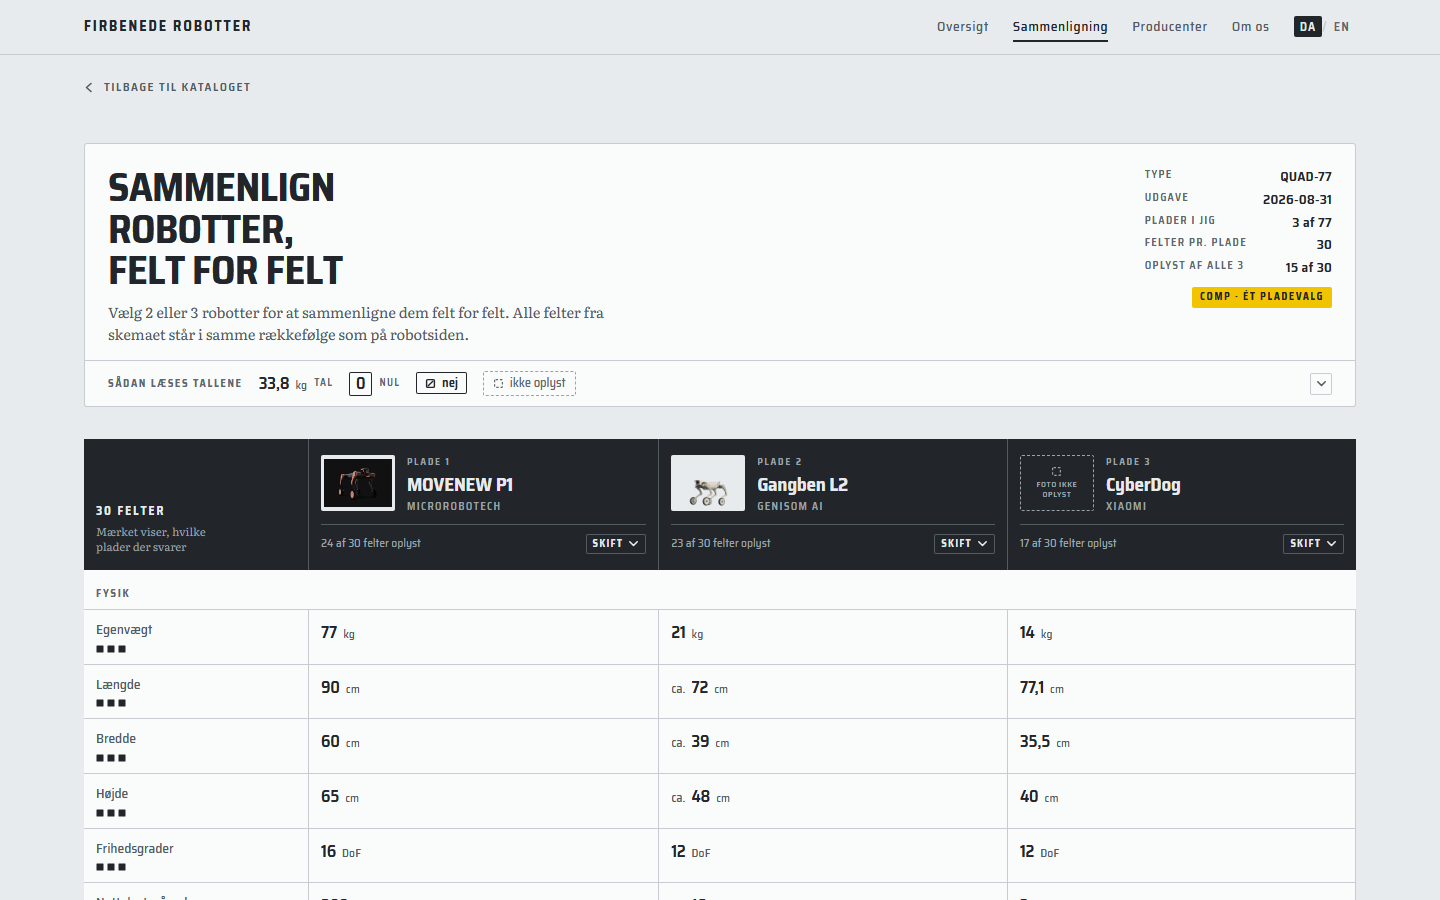
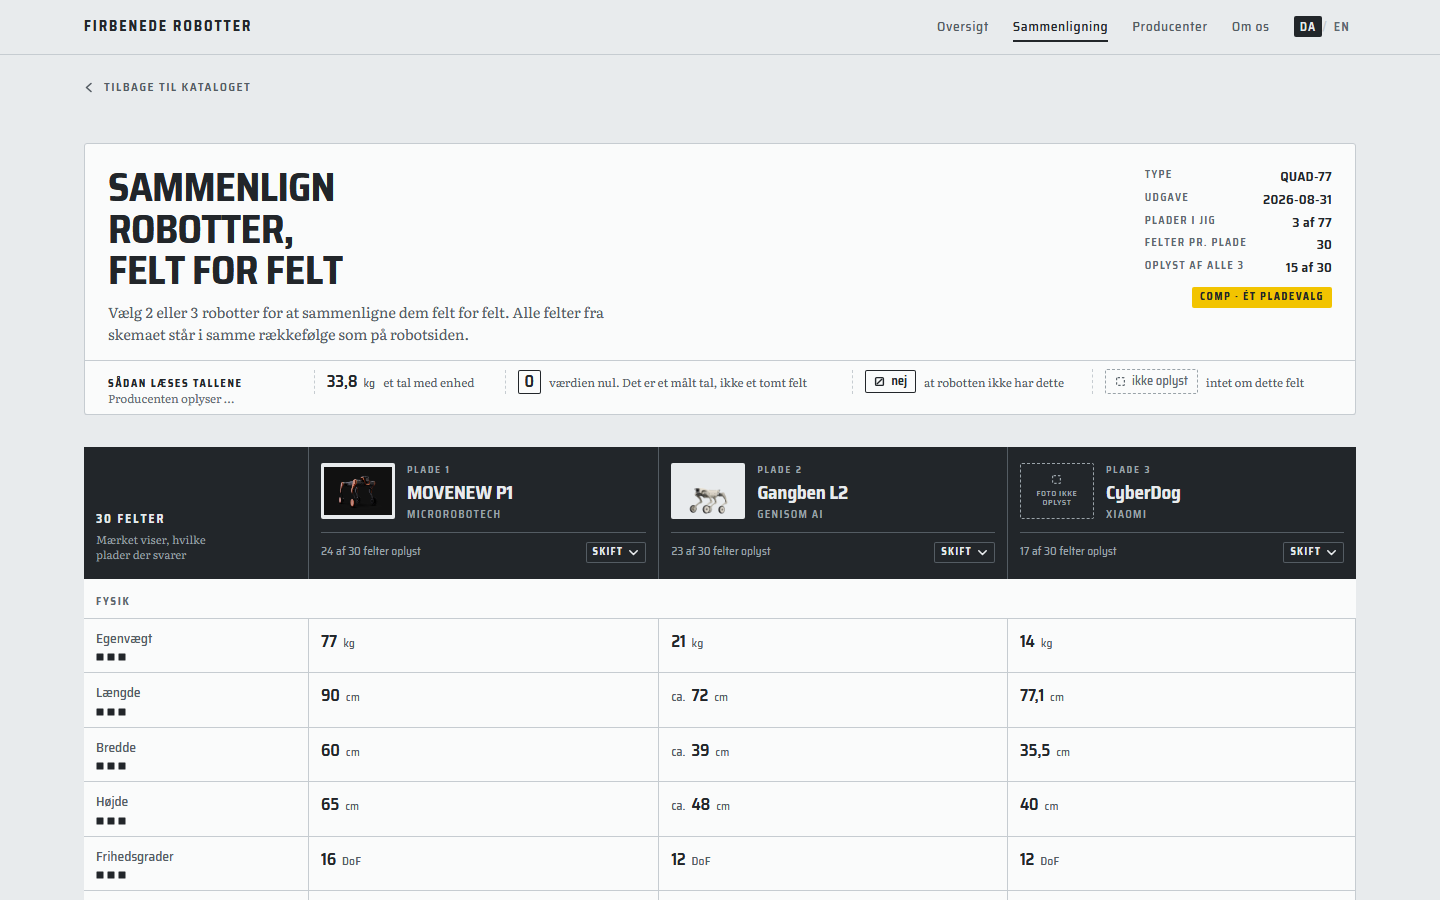
Laesenoeglen staar fremme: ingen fold, pladsen holdt paa komprimering
JPK: "Denne skal ikke vaere en fold sammen. Vis den hele tiden."

De to meldinger om legenden trak i hver sin retning: foerst "for stor",
nu "intet maa vaere skjult". Den forkerte loesning ville vaere at folde
<details>'ens krop permanent ud - saa var den store kasse tilbage og
foerste melding rullet tilbage.

LOESNINGEN ER KOMPRIMERING, IKKE SKJUL. De fire i18n-forklaringer deler
ordret forstavelsen "Producenten oplyser". Den staar nu EEN gang som
baandets lead, og hvert maerke baerer kun sin egen fortsaettelse.
Baandet laeses vandret som een saetning:

  Saadan laeses tallene / Producenten oplyser ...
  [33,8 kg] et tal med enhed
  [0] vaerdien nul. Det er et maalt tal, ikke et tomt felt
  [nej] at robotten ikke har dette
  [ikke oplyst] intet om dette felt

Forstavelsen er MAALT som laengste faelles forstavelse, ikke skrevet af,
og en assertion faelder bygget, hvis LEAD + rest ikke giver den
oprindelige i18n-streng tegn for tegn. Komprimeringen kan altsaa ikke
tavst tabe betydning - og alle fire tilstande har stadig hver sin
synlige forklaring, ikke bare et navn.

MAALT MOD REVISIONENS TAL (loft: +25 %):
  legendens hoejde 1440 ....  44 -> 53 px   (loft 55)    inden for
  legendens hoejde 390 ..... 106 -> 131 px  (loft 132,5) inden for
  y foerste datalinje 1440 . 609 -> 618 px  (loft 761)   inden for
  y foerste datalinje 390 .. 841 -> 866 px  (loft 1.051) inden for
  <details>/<summary> ........ 2 -> 0
[…]

diff --git a/retninger/nyverden/typeskilt.css b/retninger/nyverden/typeskilt.css
@@ -571,52 +571,54 @@ p{margin:0}
    hedder derfor .matrix og ruller vandret i stedet for at bryde op.
    ========================================================================== */
 
-/* 13a. Tegnbaandet — ét baand, der kan foldes ud.
-   JPK 31. aug 2026: forklaringen er noedvendig, kassen var for stor (maalt
-   185 px paa 1440 og 531 px paa 390, foer matricen begyndte). Baandet er
-   altid synligt; den fulde forklaring foldes ud med <details>, som virker
-   uden JavaScript. "Ingen vinder markeret" er flyttet ud til .vinderregel:
-   de fire her forklarer notation, den femte er en holdning.                 */
-.tegn-udtraek{border-bottom:1px solid var(--rille)}
+/* 13a. Tegnbaandet — ALTID synligt, ingen foldemekanik.
+   JPK har meldt to gange, og de trak i hver sin retning: kassen var for stor
+   (185 px paa 1440 / 531 paa 390), og siden: "Vis den hele tiden."
+   Pladsen vindes derfor paa KOMPRIMERING, ikke paa at skjule: de fire
+   i18n-forklaringer deler ordret forstavelsen "Producenten oplyser", som nu
+   staar én gang som baandets lead. Hvert maerke baerer kun sin egen
+   fortsaettelse — og generatoren faelder bygget, hvis lead + rest ikke giver
+   den oprindelige streng tegn for tegn.                                     */
 .tegnbaand{
-  display:flex;align-items:center;gap:var(--r4);flex-wrap:wrap;
-  padding:10px var(--r5);cursor:pointer;list-style:none;
+  border-bottom:1px solid var(--rille);
+  padding:8px var(--r5) 9px;
 }
-.tegnbaand::-webkit-details-marker{display:none}
-.tegnbaand:hover{background:var(--eloxgraa)}
-.tegn-udtraek > summary:focus-visible{
-  outline:2px solid var(--gunmetal);outline-offset:-2px;
-  box-shadow:inset 0 0 0 5px var(--afmaerkningsgul);
-}
+/* Leadet er FOERSTE celle i raekken, ikke en linje ovenover: det sparer en
+   hel tekstlinje, og saetningen loeber vandret gennem baandet. */
+/* Leadets egen linjeafstand er strammet, fordi den — ikke teksten — satte
+   hele baandets hoejde: maalt 33 px mod tilstandscellernes 24. */
+.tegnbaand__lead{padding-right:var(--r3);min-width:0}
 .tegnbaand__navn{
-  font-size:10.5px;font-weight:700;letter-spacing:.15em;
-  text-transform:uppercase;color:var(--stoev-blaek);white-space:nowrap;
+  display:block;font-size:10.5px;font-weight:700;letter-spacing:.15em;
+  line-height:1.1;text-transform:uppercase;color:var(--gunmetal);margin-bottom:1px;
 }
-.tegnbaand__raekke{display:flex;align-items:center;gap:var(--r4);flex-wrap:wrap;min-width:0}
-.tegn{display:inline-flex;align-items:center;gap:7px;white-space:nowrap}
-.tegn__ord{
-  font-size:10px;font-weight:600;letter-spacing:.12em;
-  text-transform:uppercase;color:var(--stoev-blaek);
+/* Forstavelsen er saetningens begyndelse, ikke en etiket — derfor manualens
+   skrift, som resten af forklaringen. */
+.tegnbaand__stam{
+  display:block;font-family:var(--manual);font-size:11.5px;line-height:1.25;
+  color:var(--stoev-blaek);
 }
-.tegnbaand__haandtag{
-  margin-left:auto;display:grid;place-items:center;width:22px;height:22px;flex:none;
-  border-radius:2px;box-shadow:inset 0 0 0 1px var(--rille);color:var(--blaek-2);
+/* Leadet plus fire tilstande paa én raekke. Hver tilstand baerer sit maerke OG
+   sin egen fortsaettelse af saetningen — aldrig kun et navn. */
+/* Spalterne er UENS med vilje, og bredderne er maalt frem, ikke gaettet:
+   "nul"-forklaringen er den laengste (den baerer to saetninger, fordi
+   forskellen paa et maalt nul og et tomt felt er sidens vigtigste skelnen),
+   mens "nej" og "ikke oplyst" er korte. Lige spalter tvang nul til to linjer
+   og satte dermed hele baandets hoejde: maalt 36 px mod de oevriges 24. */
+.tegnbaand__raekke{
+  display:grid;
+  grid-template-columns:minmax(0,.84fr) minmax(0,.78fr) minmax(0,1.42fr) minmax(0,.98fr) minmax(0,.98fr);
+  gap:0;align-items:baseline;
 }
-.tegn-udtraek[open] .tegnbaand__haandtag svg{transform:rotate(180deg)}
-.tegnbaand__krop{
-  display:grid;grid-template-columns:repeat(4,minmax(0,1fr));
-  padding:0 var(--r5) var(--r5);
+.tegn{
+  display:flex;align-items:baseline;gap:8px;min-width:0;
+  padding:0 var(--r3);border-left:1px dashed var(--rille);
 }
-.tegnpost{padding:0 var(--r4);border-left:1px dashed var(--rille);min-width:0}
-.tegnpost:first-child{border-left:0;padding-left:0}
-.tegnpost__mrk{display:block;margin-bottom:6px;min-height:20px}
-.tegnpost__ord{
-  display:block;font-size:10px;font-weight:700;letter-spacing:.14em;
-  text-transform:uppercase;color:var(--stoev-blaek);margin-bottom:3px;
-}
-.tegnpost__tekst{
-  display:block;font-family:var(--manual);font-size:12px;line-height:1.45;
-  color:var(--blaek-2);text-wrap:pretty;
+.tegn:first-child{border-left:0;padding-left:0}
+.tegn__mrk{flex:none}
+.tegn__tekst{
+  font-family:var(--manual);font-size:11.5px;line-height:1.35;
+  color:var(--blaek-2);text-wrap:pretty;min-width:0;
 }
 .stempler__vaegt{color:var(--gunmetal)}
 
@@ -828,18 +830,11 @@ p{margin:0}
   margin-top:var(--r5);background:var(--kridt);border-radius:3px;
   box-shadow:inset 0 0 0 1px var(--rille), inset 0 1px 0 var(--stans);
 }
-.udtraek-saml > summary{
-  display:flex;align-items:center;gap:10px;cursor:pointer;list-style:none;
+.udtraek-saml__top{
   padding:var(--r4) var(--r5);
   font-size:11.5px;font-weight:700;letter-spacing:.15em;text-transform:uppercase;
+  border-bottom:1px solid var(--rille);
 }
-.udtraek-saml > summary::-webkit-details-marker{display:none}
-.udtraek-saml > summary .haandtag{
-  margin-left:auto;display:grid;place-items:center;width:22px;height:22px;
-  border-radius:2px;box-shadow:inset 0 0 0 1px var(--gunmetal);
-}
-.udtraek-saml[open] > summary{border-bottom:1px solid var(--rille)}
-.udtraek-saml[open] > summary .haandtag svg{transform:rotate(180deg)}
 .udtraek-saml__krop{padding:var(--r5)}
 .udtraek-saml__note{
   font-family:var(--manual);font-size:12.5px;line-height:1.5;color:var(--blaek-2);
@@ -897,8 +892,8 @@ p{margin:0}
    Matricen brydes IKKE op (det ville koste tabelrollen). Den ruller vandret,
    og raekkehovedet klaeber til venstre kant, saa feltnavnet altid er synligt. */
 @media (max-width:1100px){
-  .tegnbaand__krop{grid-template-columns:repeat(2,minmax(0,1fr));gap:var(--r4) 0}
-  .tegnpost:nth-child(2n+1){border-left:0;padding-left:0}
+  .tegnbaand__raekke{grid-template-columns:repeat(2,minmax(0,1fr));gap:7px 0}
+  .tegn:nth-child(2n+1){border-left:0;padding-left:0}
 }
 
 /* Under 820 px kan de fire spalter ikke staa uden at knuse tallene. Her — og
@@ -915,11 +910,21 @@ p{margin:0}
 
 @media (max-width:720px){
   .matrixsektion{padding:var(--r5) 0 var(--r6)}
-  .tegnbaand{padding:10px var(--r4);gap:var(--r3)}
-  .tegnbaand__raekke{gap:var(--r3) var(--r4)}
-  .tegnbaand__krop{grid-template-columns:1fr;gap:var(--r3);padding:0 var(--r4) var(--r4)}
-  .tegnpost{border-left:0;padding:0 0 var(--r3);border-bottom:1px dashed var(--rille)}
-  .tegnpost:last-child{border-bottom:0;padding-bottom:0}
+  .tegnbaand{padding:5px var(--r4) 6px}
+  /* Chippene i baandet strammes en anelse paa smal skaerm — de saetter
+     raekkehoejden, naar hver tilstand faar sin egen linje. Gaelder KUN
+     legendens chips, ikke matricens celler. */
+  .tegnbaand .v-nej,.tegnbaand .v-ikke,.tegnbaand .v-ja{padding:1px 7px}
+  /* Paa 390 er der ikke bredde til fem spalter med prosa. Ét spor, men
+     stadig ALT synligt: fire raekker a én linje, maerket til venstre.
+     Leadet saettes INLINE her — som to blokke kostede det en hel ekstra
+     linje (maalt 33 px mod 16). */
+  .tegnbaand__raekke{grid-template-columns:1fr;gap:2px}
+  .tegn,.tegn:nth-child(2n+1){border-left:0;padding:0}
+  .tegn__tekst{font-size:11px}
+  .tegnbaand__lead{padding-right:0}
+  .tegnbaand__navn{display:inline;margin-right:6px}
+  .tegnbaand__stam{display:inline;font-size:11px}
   .matrix{font-size:13px}
   .hjoerne,.feltnavn{width:150px;min-width:150px}
   /* Maerkatfotoet krymper med hovedet, saa den klaebende raekke ikke aeder

diff --git a/retninger/nyverden/sammenligning.html b/retninger/nyverden/sammenligning.html
@@ -67,24 +67,18 @@ FINISH: comp, ikke implementering. Leverancen er retningen.
 </div>
 </div>
 
-<details class="tegn-udtraek">
-<summary class="tegnbaand">
-<span class="tegnbaand__navn">Sådan læses tallene</span>
-<span class="tegnbaand__raekke">
-<span class="tegn"><span class="tegn__mrk"><span class="v v-tal"><b class="num">33,8</b><span class="enhed">kg</span></span></span><span class="tegn__ord">tal</span></span>
-<span class="tegn"><span class="tegn__mrk"><span class="v v-tal v-nul"><b class="num">0</b></span></span><span class="tegn__ord">nul</span></span>
-<span class="tegn"><span class="tegn__mrk"><span class="v v-nej"><svg width="11" height="11" viewBox="0 0 11 11" aria-hidden="true"><rect x="1.6" y="1.6" width="7.8" height="7.8" rx="1" fill="none" stroke="currentColor" stroke-width="1.4"/><path d="M3.2 7.8 7.8 3.2" stroke="currentColor" stroke-width="1.4" stroke-linecap="round"/></svg>nej</span></span></span>
-<span class="tegn"><span class="tegn__mrk"><span class="v v-ikke"><svg width="11" height="11" viewBox="0 0 11 11" aria-hidden="true"><rect x="1.6" y="1.6" width="7.8" height="7.8" rx="1" fill="none" stroke="currentColor" stroke-width="1.2" stroke-dasharray="2.4 1.9"/></svg>ikke oplyst</span></span></span>
-</span>
-<span class="tegnbaand__haandtag"><svg width="11" height="11" viewBox="0 0 11 11" aria-hidden="true"><path d="M1.8 3.8 5.5 7.5 9.2 3.8" fill="none" stroke="currentColor" stroke-width="1.6" stroke-linecap="round" stroke-linejoin="round"/></svg></span>
-</summary>
-<div class="tegnbaand__krop">
-<div class="tegnpost"><span class="tegnpost__mrk"><span class="v v-tal"><b class="num">33,8</b><span class="enhed">kg</span></span></span><span class="tegnpost__ord">tal</span><span class="tegnpost__tekst">Producenten oplyser et tal med enhed.</span></div>
-<div class="tegnpost"><span class="tegnpost__mrk"><span class="v v-tal v-nul"><b class="num">0</b></span></span><span class="tegnpost__ord">nul</span><span class="tegnpost__tekst">Producenten oplyser værdien nul. Det er et målt tal, ikke et tomt felt.</span></div>
-<div class="tegnpost"><span class="tegnpost__mrk"><span class="v v-nej"><svg width="11" height="11" viewBox="0 0 11 11" aria-hidden="true"><rect x="1.6" y="1.6" width="7.8" height="7.8" rx="1" fill="none" stroke="currentColor" stroke-width="1.4"/><path d="M3.2 7.8 7.8 3.2" stroke="currentColor" stroke-width="1.4" stroke-linecap="round"/></svg>nej</span></span><span class="tegnpost__ord">nej</span><span class="tegnpost__tekst">Producenten oplyser, at robotten ikke har dette.</span></div>
-<div class="tegnpost"><span class="tegnpost__mrk"><span class="v v-ikke"><svg width="11" height="11" viewBox="0 0 11 11" aria-hidden="true"><rect x="1.6" y="1.6" width="7.8" height="7.8" rx="1" fill="none" stroke="currentColor" stroke-width="1.2" stroke-dasharray="2.4 1.9"/></svg>ikke oplyst</span></span><span class="tegnpost__ord">ikke oplyst</span><span class="tegnpost__tekst">Producenten oplyser intet om dette felt.</span></div>
+<section class="tegnbaand" aria-labelledby="h-tegn">
+<div class="tegnbaand__raekke">
+<p class="tegnbaand__lead">
+<span class="tegnbaand__navn" id="h-tegn">Sådan læses tallene</span>
+<span class="tegnbaand__stam">Producenten oplyser …</span>
+</p>
+<span class="tegn"><span class="tegn__mrk"><span class="v v-tal"><b class="num">33,8</b><span class="enhed">kg</span></span></span><span class="tegn__tekst">et tal med enhed</span></span>
+<span class="tegn"><span class="tegn__mrk"><span class="v v-tal v-nul"><b class="num">0</b></span></span><span class="tegn__tekst">værdien nul. Det er et målt tal, ikke et tomt felt</span></span>
+<span class="tegn"><span class="tegn__mrk"><span class="v v-nej"><svg width="11" height="11" viewBox="0 0 11 11" aria-hidden="true"><rect x="1.6" y="1.6" width="7.8" height="7.8" rx="1" fill="none" stroke="currentColor" stroke-width="1.4"/><path d="M3.2 7.8 7.8 3.2" stroke="currentColor" stroke-width="1.4" stroke-linecap="round"/></svg>nej</span></span><span class="tegn__tekst">at robotten ikke har dette</span></span>
+<span class="tegn"><span class="tegn__mrk"><span class="v v-ikke"><svg width="11" height="11" viewBox="0 0 11 11" aria-hidden="true"><rect x="1.6" y="1.6" width="7.8" height="7.8" rx="1" fill="none" stroke="currentColor" stroke-width="1.2" stroke-dasharray="2.4 1.9"/></svg>ikke oplyst</span></span><span class="tegn__tekst">intet om dette felt</span></span>
 </div>
-</details>
+</section>
 
 </div>
 </div>
@@ -482,8 +476,8 @@ Vi markerer ikke en vindercelle pr. række. En lavere værdi er ikke bedre end e
 
 Dækning i kataloget: 76 af 77 robotter har et fabrikantfoto.</p>
 </div>
-<details class="udtraek-saml" id="vaelger">
-<summary>Vælg robotter — 77 modeller<span class="haandtag"><svg width="11" height="11" viewBox="0 0 11 11" aria-hidden="true"><path d="M1.8 3.8 5.5 7.5 9.2 3.8" fill="none" stroke="currentColor" stroke-width="1.6" stroke-linecap="round" stroke-linejoin="round"/></svg></span></summary>
+<section class="udtraek-saml" id="vaelger" aria-labelledby="h-vaelger">
+<p class="udtraek-saml__top" id="h-vaelger">Vælg robotter — 77 modeller</p>
 <div class="udtraek-saml__krop">
 <p class="udtraek-saml__note">Vælg 2 eller 3 robotter fra listen. Tabellen opdateres automatisk. Du kan sammenligne højst 3 robotter ad gangen.</p>
 <div class="sog">
@@ -801,7 +795,7 @@ Dækning i kataloget: 76 af 77 robotter har et fabrikantfoto.</p>
 </span>
 </div>
 </div>
-</details>
+</section>
 <noscript>
 <p class="uden-js">Sammenligning side om side kræver JavaScript. Kataloget viser robotternes nøgletal uden JavaScript. <a href="katalog.html">Gå til kataloget</a></p>
 </noscript>

diff --git a/retninger/nyverden/MANIFEST.md b/retninger/nyverden/MANIFEST.md
@@ -457,8 +457,7 @@ AI-genererede billeder (hård begrænsning 4).
 **2. "Sådan læses tallene" var for stor.** JPK: *"Er kassen nødvendig??"*
 Forklaringen er nødvendig — `0`, `nej` og `ikke oplyst` er ikke selvforklarende,
 og forskellen er præcis den, siden findes for at vise (hård begrænsning 5). Men
-kassen kostede en halv første skærm. Den er nu **ét bånd, der kan foldes ud**
-med `<details>` (virker uden JavaScript). **"Ingen vinder markeret" er flyttet
+kassen kostede en halv første skærm. **"Ingen vinder markeret" er flyttet
 ud** til bunden: de fire andre forklarer notation, den femte er en redaktionel
 position — den flyttes, den fjernes ikke.
 
@@ -469,6 +468,46 @@ position — den flyttes, den fjernes ikke.
 | Legendens højde, 390 | 531 px | **106 px** |
 | Y for første datarække, 1440 | 749 px | **609 px** |
 | Y for første datarække, 390 | 1.234 px | **841 px** |
+
+### Anden runde: læsenøglen skal stå fremme
+
+JPK: *"Denne skal ikke være en fold sammen. Vis den hele tiden."* De to
+meldinger trak i hver sin retning — den første sagde *for stor*, den anden
+*intet må være skjult*. **Den forkerte løsning var at folde `<details>`'ens
+krop permanent ud**; så var kassen tilbage.
+
+**Pladsen vindes på komprimering, ikke på skjul.** De fire i18n-forklaringer
+deler ordret forstavelsen **"Producenten oplyser"** — målt som længste fælles
+forstavelse, ikke skrevet af. Den står nu **én gang** som båndets lead, og hvert
+mærke bærer kun sin egen fortsættelse. Båndet læses vandret som én sætning:
+
+> **Sådan læses tallene** · Producenten oplyser … | `33,8 kg` et tal med enhed ·
+> `0` værdien nul. Det er et målt tal, ikke et tomt felt · `⊘ nej` at robotten
+> ikke har dette · `ikke oplyst` intet om dette felt
+
+Generatoren fælder bygget, hvis `LEAD + rest` ikke giver den oprindelige
+i18n-streng tegn for tegn — komprimeringen kan altså ikke tavst tabe betydning.
+
+| Målt | revision | nu | loft (+25 %) |
+|---|---|---|---|
+| Legendens højde, 1440 | 44 px | **53 px** | 55 px |
+| Legendens højde, 390 | 106 px | **131 px** | 132,5 px |
+| Y for første datarække, 1440 | 609 px | **618 px** | 761 px |
+| Y for første datarække, 390 | 841 px | **866 px** | 1.051 px |
+| `<details>`/`<summary>` på siden | 2 | **0** | 0 |
+
+Spalterne i båndet er **uens med vilje**, og bredderne er målt frem: `nul`-
+forklaringen bærer to sætninger (forskellen på et målt nul og et tomt felt er
+sidens vigtigste skelnen), mens `nej` og `ikke oplyst` er korte. Lige spalter
+tvang `nul` til to linjer og satte dermed hele båndets højde — målt 36 px mod de
+øvriges 24.
+
+**Vælgeren mistede også sin fold** — acceptkriteriet tæller `<details>` i hele
+filen, ikke kun i legenden. Den står under matricen, så den flytter hverken
+legendens højde eller y for første datarække, men den forlænger siden:
+**390: 3.791 → 6.505 px**, **1440: 3.132 → 3.863 px**. Skal de 77
+afkrydsningsfelter foldes sammen igen, er det den pris, der spares. Det er
+JPK's valg, ikke et sporet har truffet stiltiende.
 
 **Implementeringsnote, ikke løst her:** fotoerne er fuldstørrelse. MOVENEW P1's
 fil er **329 KB og 4.096 px bred**, vist i et felt på 74 px. En rigtig
